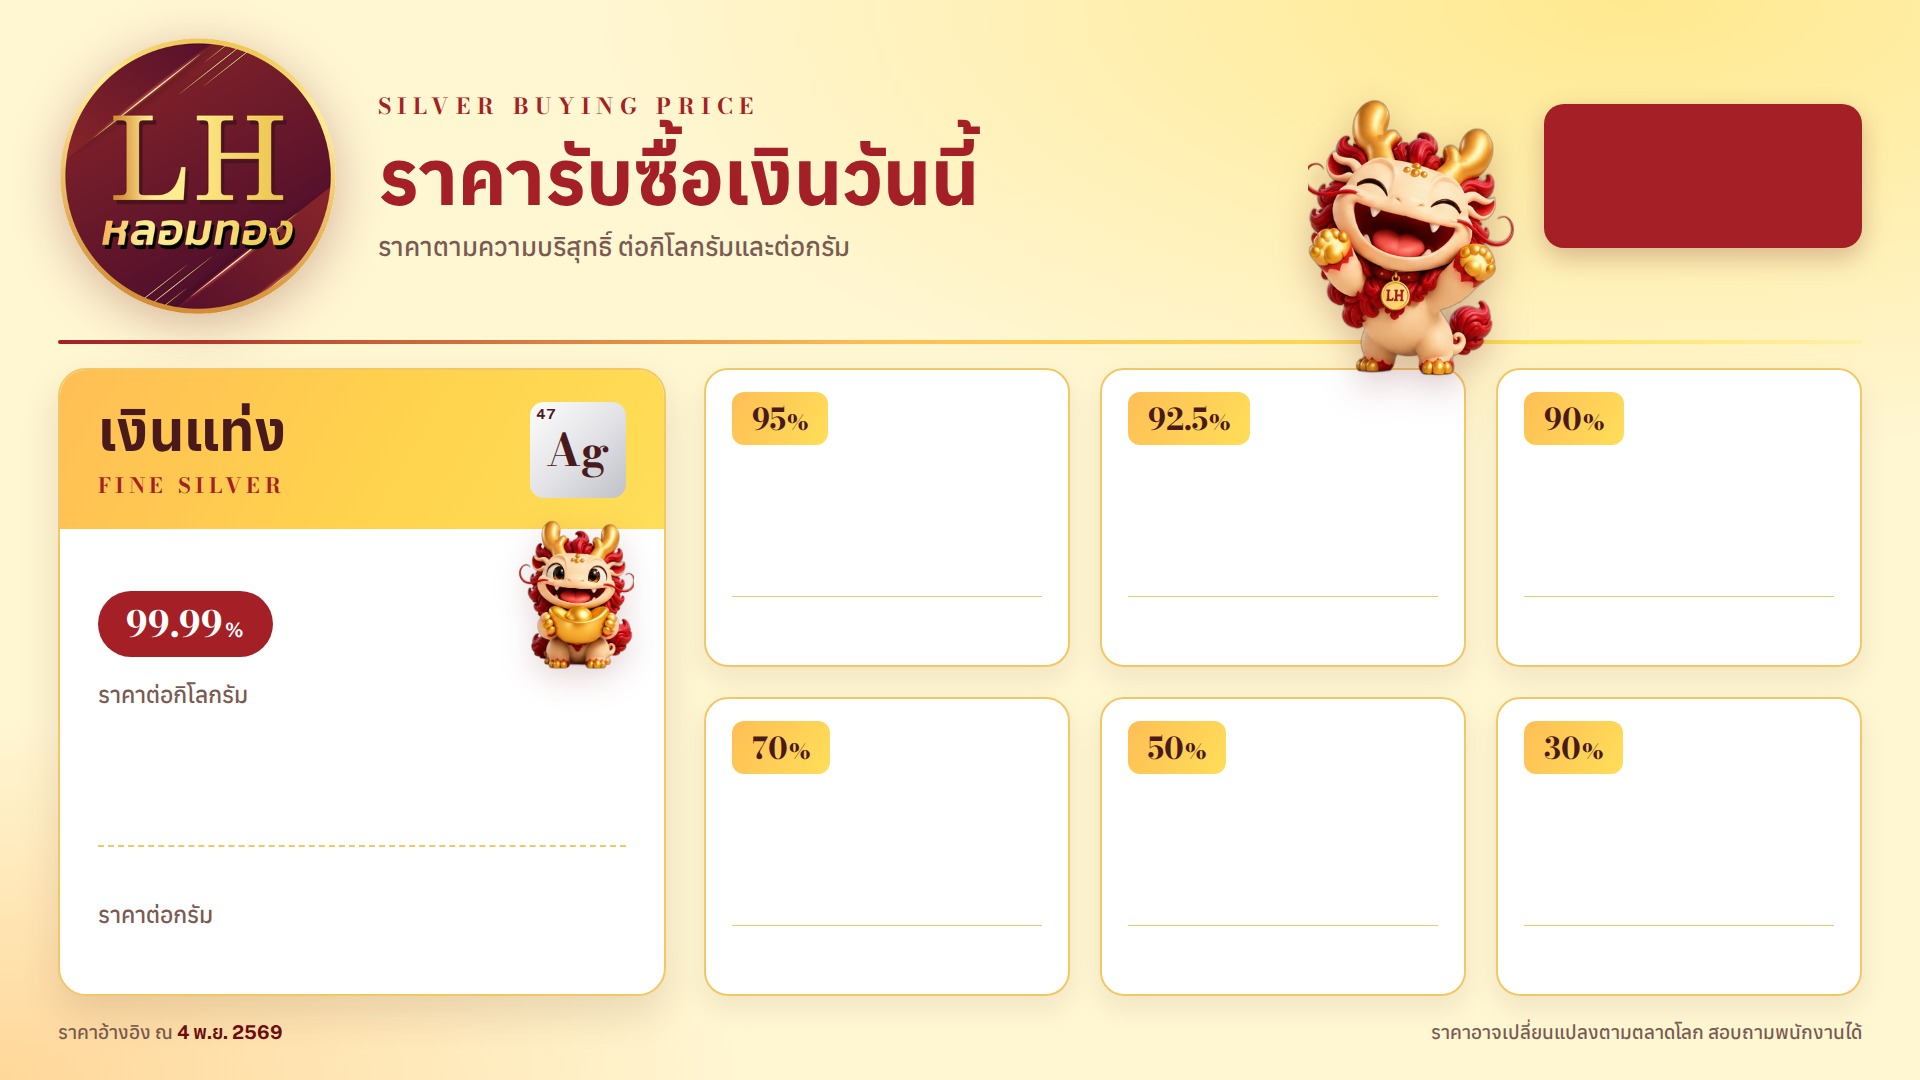
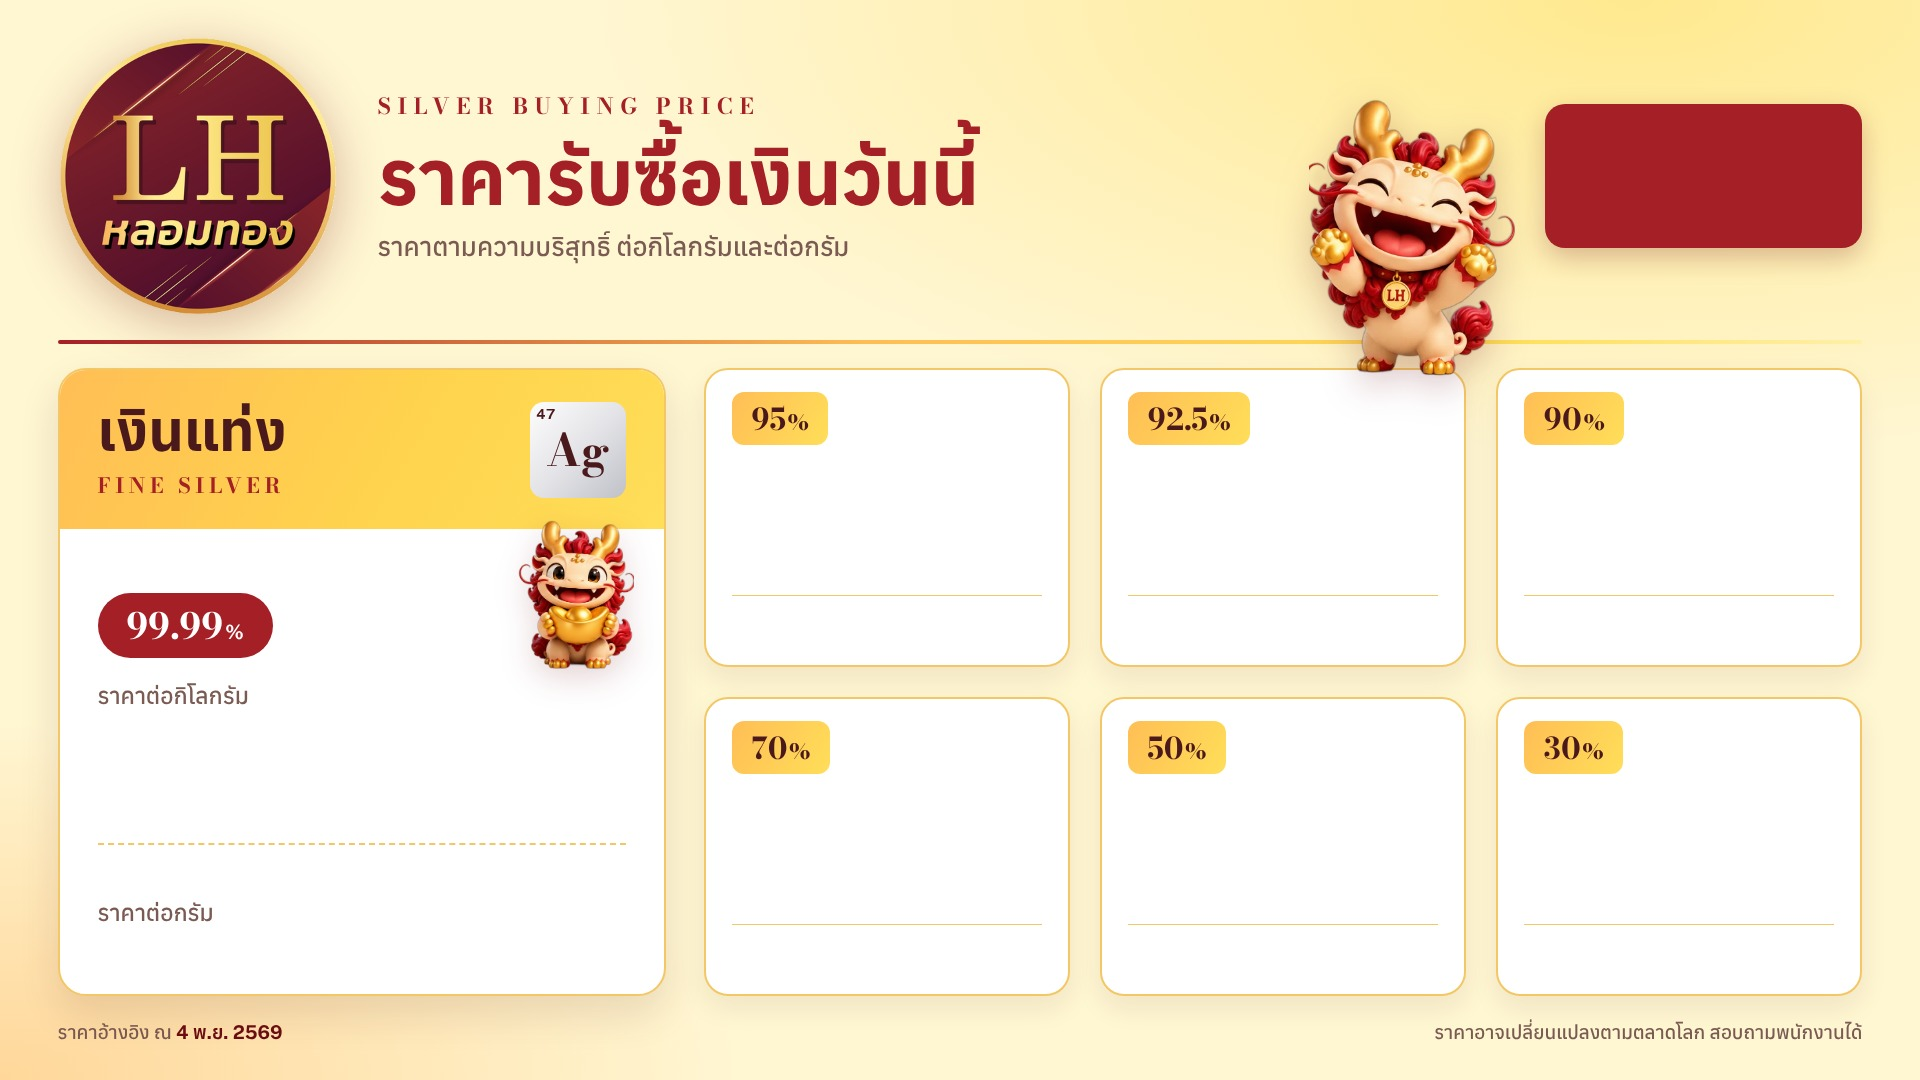
Use the 'thank you' mascot on the TV platinum card and calculator header
Claude-Session: https://claude.ai/code/session_01LGdN7pguN6hjQ9wPhGeYPe

diff --git a/calc/index.html b/calc/index.html
@@ -168,7 +168,7 @@
       <h1><span class="lh">LH</span><span class="nm">หลอมทอง</span></h1>
       <p>ประเมินราคารับซื้อเบื้องต้น</p>
     </div>
-    <img class="mascot" src="../img/mascot-look.webp" alt="" aria-hidden="true">
+    <img class="mascot" src="../img/mascot-thanks.webp" alt="" aria-hidden="true">
     <span class="live off" id="live"><i></i><span id="liveTxt">กำลังโหลด</span></span>
   </header>
 

diff --git a/board.html b/board.html
@@ -249,7 +249,7 @@ document.getElementById("metals").innerHTML = CONFIG.metals.map((m, i) => `
       <div class="label">ราคาต่อกรัม</div>
       <div class="num">${fmt0(net(m))}</div>
       <span class="unit">บาท / กรัม</span>
-      <img class="mm" src="img/mascot-${["look","ingot","play"][i % 3]}.webp" alt="">
+      <img class="mm" src="img/mascot-${["thanks","ingot","play"][i % 3]}.webp" alt="">
     </div>
   </article>`).join("");
 
